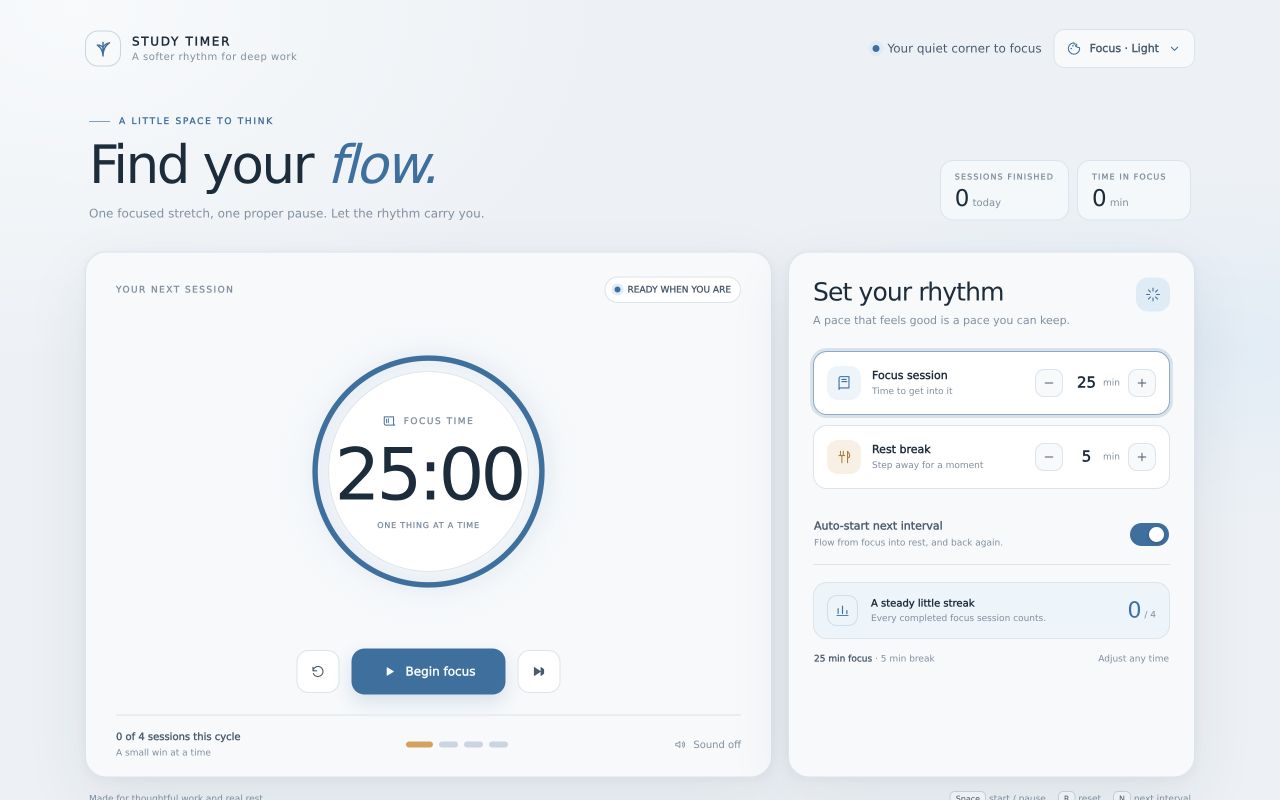
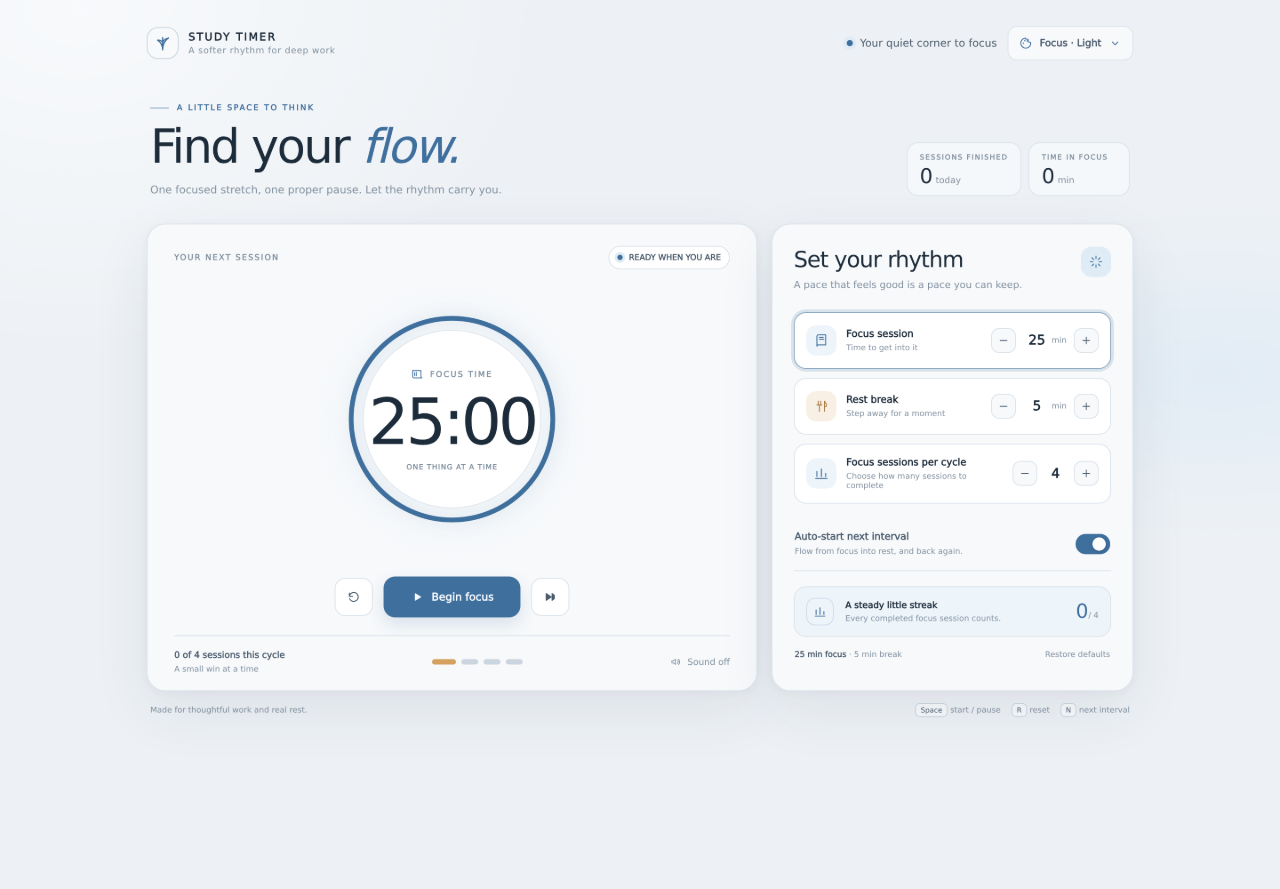
Add session cycle controls and defaults reset

diff --git a/index.html b/index.html
@@ -234,6 +234,8 @@
     .settings-spark svg { width: 17px; height: 17px; }
     .duration-list { display: grid; gap: 10px; }
     .duration-card { display: flex; justify-content: space-between; align-items: center; gap: 12px; padding: 14px 13px; border: 1px solid var(--line); border-radius: 14px; background: var(--surface-raised); }
+    .session-count-card { grid-column: 1 / -1; }
+    .session-count-card .duration-hint { max-width: 175px; white-space: normal; }
     .duration-card.is-active { border-color: color-mix(in srgb, var(--accent) 50%, var(--line)); box-shadow: 0 0 0 3px var(--focus-glow); }
     .duration-meta { display: flex; align-items: center; gap: 11px; min-width: 0; }
     .duration-icon { display: grid; place-items: center; flex: 0 0 auto; width: 34px; height: 34px; border-radius: 11px; background: var(--accent-wash); color: var(--accent); }
@@ -246,6 +248,7 @@
     .step-button:hover { border-color: var(--line-strong); color: var(--accent); }
     .step-button svg { width: 13px; height: 13px; }
     .duration-input { width: 31px; padding: 0; border: 0; outline: 0; background: transparent; color: var(--ink); font-size: 15px; font-weight: 750; text-align: center; font-variant-numeric: tabular-nums; appearance: textfield; }
+    .session-count-input { width: 25px; }
     .duration-input::-webkit-inner-spin-button, .duration-input::-webkit-outer-spin-button { margin: 0; appearance: none; }
     .minutes-suffix { margin-left: -7px; color: var(--muted); font-size: 9px; }
     .switch-row { display: flex; justify-content: space-between; align-items: center; gap: 18px; margin-top: 18px; padding: 13px 1px 15px; border-bottom: 1px solid var(--line); }
@@ -267,6 +270,8 @@
     .summary-total { color: var(--accent); font-family: var(--serif); font-size: 22px; }
     .settings-footer { display: flex; justify-content: space-between; gap: 15px; margin: 13px 1px 0; color: var(--muted); font-size: 9px; line-height: 1.5; }
     .settings-footer strong { color: var(--ink-soft); font-weight: 650; }
+    .reset-defaults-button { padding: 0; border: 0; background: transparent; color: var(--muted); cursor: pointer; font-size: 9px; text-decoration: underline; text-decoration-color: transparent; text-underline-offset: 3px; transition: color .2s, text-decoration-color .2s; }
+    .reset-defaults-button:hover { color: var(--accent); text-decoration-color: currentColor; }
     .toast { position: fixed; z-index: 8; right: 24px; bottom: 24px; max-width: calc(100vw - 48px); padding: 12px 15px; border: 1px solid var(--line-strong); border-radius: 12px; background: var(--surface-raised); color: var(--ink); box-shadow: var(--shadow); font-size: 11px; opacity: 0; transform: translateY(8px); pointer-events: none; transition: opacity .2s, transform .2s; }
     .toast.is-visible { opacity: 1; transform: translateY(0); }
     .page-footer { display: flex; justify-content: space-between; gap: 12px; margin: 16px 4px 0; color: var(--muted); font-size: 9px; }
@@ -307,11 +312,12 @@
       .timer-display { font-size: 62px; }
       .timer-buttons { margin: 3px 0 16px; }
       .primary-button { min-width: 142px; }
-      .timer-foot { align-items: flex-start; }
-      .cycle-dots { gap: 4px; }
+      .timer-foot { display: grid; grid-template-columns: minmax(0, 1fr) auto; align-items: start; row-gap: 10px; }
+      .cycle-copy { grid-column: 1; grid-row: 1; }
+      .cycle-dots { grid-column: 1 / -1; grid-row: 2; justify-content: center; gap: 4px; }
       .cycle-dot { width: 14px; }
       .cycle-dot.is-current { width: 20px; }
-      .foot-tools { gap: 8px; }
+      .foot-tools { grid-column: 2; grid-row: 1; gap: 8px; }
       .sound-button { font-size: 9px; }
       .settings-panel { padding: 19px 15px 16px; }
       .duration-list { grid-template-columns: 1fr; gap: 8px; }
@@ -403,7 +409,7 @@
 
           <div class="timer-foot">
             <div class="cycle-copy"><span class="cycle-title" id="cycleTitle">Your focus cycle</span><span class="cycle-caption" id="cycleCaption">A small win at a time</span></div>
-            <div class="cycle-dots" aria-label="Progress through four sessions"><i class="cycle-dot is-current"></i><i class="cycle-dot"></i><i class="cycle-dot"></i><i class="cycle-dot"></i></div>
+            <div class="cycle-dots" id="cycleDots" role="img" aria-label="0 of 4 focus sessions completed in this cycle"></div>
             <div class="foot-tools">
               <button class="sound-button" id="soundButton" type="button" aria-pressed="false" title="Toggle distinct focus and break sounds">
                 <svg viewBox="0 0 24 24" fill="none" aria-hidden="true"><path d="M4 10v4h3l4 3V7l-4 3H4Z" stroke="currentColor" stroke-width="1.5" stroke-linejoin="round"/><path d="M15 9a4 4 0 0 1 0 6m2-8a7 7 0 0 1 0 10" stroke="currentColor" stroke-width="1.5" stroke-linecap="round"/></svg>
@@ -434,6 +440,13 @@
               </div>
               <div class="stepper"><button class="step-button" type="button" data-step="break" data-delta="-1" aria-label="Decrease break interval by one minute"><svg viewBox="0 0 24 24" fill="none"><path d="M5 12h14" stroke="currentColor" stroke-width="1.8" stroke-linecap="round"/></svg></button><input class="duration-input" id="breakInput" type="number" inputmode="numeric" min="1" max="60" step="1" value="5" aria-label="Break interval in minutes"><span class="minutes-suffix">min</span><button class="step-button" type="button" data-step="break" data-delta="1" aria-label="Increase break interval by one minute"><svg viewBox="0 0 24 24" fill="none"><path d="M12 5v14m-7-7h14" stroke="currentColor" stroke-width="1.8" stroke-linecap="round"/></svg></button></div>
             </div>
+            <div class="duration-card session-count-card">
+              <div class="duration-meta">
+                <span class="duration-icon" aria-hidden="true"><svg viewBox="0 0 24 24" fill="none"><path d="M5 17V9m7 8V5m7 12v-5M3 20h18" stroke="currentColor" stroke-width="1.6" stroke-linecap="round"/></svg></span>
+                <div><div class="duration-name">Focus sessions per cycle</div><div class="duration-hint">Choose how many sessions to complete</div></div>
+              </div>
+              <div class="stepper"><button class="step-button" type="button" data-session-delta="-1" aria-label="Decrease focus sessions per cycle"><svg viewBox="0 0 24 24" fill="none"><path d="M5 12h14" stroke="currentColor" stroke-width="1.8" stroke-linecap="round"/></svg></button><input class="duration-input session-count-input" id="sessionsPerCycleInput" type="number" inputmode="numeric" min="1" max="12" step="1" value="4" aria-label="Number of focus sessions per cycle"><button class="step-button" type="button" data-session-delta="1" aria-label="Increase focus sessions per cycle"><svg viewBox="0 0 24 24" fill="none"><path d="M12 5v14m-7-7h14" stroke="currentColor" stroke-width="1.8" stroke-linecap="round"/></svg></button></div>
+            </div>
           </div>
 
           <div class="switch-row">
@@ -444,9 +457,9 @@
           <div class="session-summary" aria-live="polite">
             <span class="summary-icon" aria-hidden="true"><svg viewBox="0 0 24 24" fill="none"><path d="M5 17V9m7 8V5m7 12v-5" stroke="currentColor" stroke-width="1.8" stroke-linecap="round"/><path d="M3 20h18" stroke="currentColor" stroke-width="1.4" stroke-linecap="round"/></svg></span>
             <div class="summary-main"><div class="summary-title">A steady little streak</div><div class="summary-caption" id="sessionSummary">Every completed focus session counts.</div></div>
-            <div class="summary-total"><span id="summarySessions">0</span><small style="font-family:var(--font);font-size:9px;color:var(--muted)"> / 4</small></div>
+            <div class="summary-total"><span id="summarySessions">0</span><small id="summarySessionTarget" style="font-family:var(--font);font-size:9px;color:var(--muted)"> / 4</small></div>
           </div>
-          <div class="settings-footer"><span><strong id="selectedDuration">25 min focus</strong> · <span id="selectedBreak">5 min break</span></span><span>Adjust any time</span></div>
+          <div class="settings-footer"><span><strong id="selectedDuration">25 min focus</strong> · <span id="selectedBreak">5 min break</span></span><button class="reset-defaults-button" id="restoreDefaultsButton" type="button" title="Reset intervals, theme, sound, timer, and session progress">Restore defaults</button></div>
         </aside>
       </div>
     </main>
@@ -472,7 +485,7 @@
       const studyIcon = '<svg viewBox="0 0 24 24" fill="none" aria-hidden="true"><path d="M5 5.5A2.5 2.5 0 0 1 7.5 3H19v16H7.5A2.5 2.5 0 0 0 5 21V5.5Z" stroke="currentColor" stroke-width="1.7" stroke-linejoin="round"/><path d="M9 7h6m-6 3h7" stroke="currentColor" stroke-width="1.6" stroke-linecap="round"/></svg>';
       const breakIcon = '<svg viewBox="0 0 24 24" fill="none" aria-hidden="true"><path d="M7 4v6m4-6v6M5 10h8M9 10v10m8-16v16m0-16c2 2 3 4.2 3 6.3 0 1.8-1.1 2.7-3 2.7" stroke="currentColor" stroke-width="1.7" stroke-linecap="round" stroke-linejoin="round"/></svg>';
       const dayKey = (date = new Date()) => `${date.getFullYear()}-${String(date.getMonth() + 1).padStart(2, "0")}-${String(date.getDate()).padStart(2, "0")}`;
-      const defaults = { studyMinutes: 25, breakMinutes: 5, theme: "focus-light", autoStart: true, sound: false, completed: 0, focusMinutes: 0, date: dayKey() };
+      const defaults = { studyMinutes: 25, breakMinutes: 5, sessionsPerCycle: 4, theme: "focus-light", autoStart: true, sound: false, completed: 0, focusMinutes: 0, date: dayKey() };
       const readJson = (key) => { try { return JSON.parse(localStorage.getItem(key) || "null"); } catch { return null; } };
       const initialPrefs = readJson(PREFS_KEY) || {};
       const isNewDay = initialPrefs.date && initialPrefs.date !== dayKey();
@@ -480,6 +493,7 @@
       const prefs = {
         studyMinutes: clamp(Number(initialPrefs.studyMinutes) || defaults.studyMinutes, 1, 180),
         breakMinutes: clamp(Number(initialPrefs.breakMinutes) || defaults.breakMinutes, 1, 60),
+        sessionsPerCycle: clamp(Math.floor(Number(initialPrefs.sessionsPerCycle) || defaults.sessionsPerCycle), 1, 12),
         theme: THEMES[savedTheme] ? savedTheme : defaults.theme,
         autoStart: typeof initialPrefs.autoStart === "boolean" ? initialPrefs.autoStart : defaults.autoStart,
         sound: typeof initialPrefs.sound === "boolean" ? initialPrefs.sound : defaults.sound,
@@ -544,6 +558,7 @@
         $("breakCard").classList.toggle("is-active", phase === "break");
         if (document.activeElement !== $("studyInput")) $("studyInput").value = prefs.studyMinutes;
         if (document.activeElement !== $("breakInput")) $("breakInput").value = prefs.breakMinutes;
+        if (document.activeElement !== $("sessionsPerCycleInput")) $("sessionsPerCycleInput").value = prefs.sessionsPerCycle;
         $("selectedDuration").textContent = `${prefs.studyMinutes} min focus`;
         $("selectedBreak").textContent = `${prefs.breakMinutes} min break`;
         $("autoStartInput").checked = prefs.autoStart;
@@ -551,15 +566,29 @@
         $("soundLabel").textContent = prefs.sound ? "Sound on" : "Sound off";
         $("sessionsStat").textContent = prefs.completed;
         $("focusHours").textContent = prefs.focusMinutes;
-        $("summarySessions").textContent = prefs.completed % 4 || (prefs.completed > 0 ? 4 : 0);
+        const cycleTarget = prefs.sessionsPerCycle;
+        const cycleRemainder = prefs.completed % cycleTarget;
+        const cycleComplete = prefs.completed > 0 && cycleRemainder === 0;
+        const completedThisCycle = cycleComplete ? cycleTarget : cycleRemainder;
+        $("summarySessions").textContent = completedThisCycle;
+        $("summarySessionTarget").textContent = `/ ${cycleTarget}`;
         $("sessionSummary").textContent = prefs.completed ? `${prefs.completed} focus ${prefs.completed === 1 ? "session" : "sessions"} completed. Lovely work.` : "Every completed focus session counts.";
-        const countInCycle = prefs.completed % 4;
-        document.querySelectorAll(".cycle-dot").forEach((dot, index) => {
-          dot.classList.toggle("is-done", index < countInCycle);
-          dot.classList.toggle("is-current", index === countInCycle);
-        });
-        $("cycleTitle").textContent = `${countInCycle || (prefs.completed > 0 ? 4 : 0)} of 4 sessions this cycle`;
-        $("cycleCaption").textContent = prefs.completed >= 4 && countInCycle === 0 ? "A nice time for a longer pause" : "A small win at a time";
+        const cycleDots = $("cycleDots");
+        const cycleProgressKey = `${cycleTarget}:${completedThisCycle}:${cycleComplete}`;
+        if (cycleDots.dataset.progress !== cycleProgressKey) {
+          if (cycleDots.childElementCount !== cycleTarget) {
+            cycleDots.replaceChildren(...Array.from({ length: cycleTarget }, () => document.createElement("i")));
+          }
+          [...cycleDots.children].forEach((dot, index) => {
+            dot.className = "cycle-dot";
+            if (index < completedThisCycle) dot.classList.add("is-done");
+            else if (!cycleComplete && index === completedThisCycle) dot.classList.add("is-current");
+          });
+          cycleDots.dataset.progress = cycleProgressKey;
+        }
+        cycleDots.setAttribute("aria-label", `${completedThisCycle} of ${cycleTarget} focus sessions completed in this cycle`);
+        $("cycleTitle").textContent = `${completedThisCycle} of ${cycleTarget} sessions this cycle`;
+        $("cycleCaption").textContent = cycleComplete ? "A nice time for a longer pause" : "A small win at a time";
         document.title = `${format(remaining)} · ${phase === "study" ? "Focus" : "Break"} — Study Timer`;
       }
       function start() {
@@ -652,9 +681,24 @@
         if (isRunning && phase === kind && remaining <= 0) { completeInterval(); return; }
         savePrefs(); saveTimer(); render();
       }
+      function changeSessionsPerCycle(value) {
+        prefs.sessionsPerCycle = clamp(Math.round(Number(value) || 1), 1, 12);
+        savePrefs(); render();
+      }
+      function restoreDefaults() {
+        if (!window.confirm("Restore all default settings and clear today's session progress and timer?")) return;
+        Object.assign(prefs, defaults, { date: dayKey() });
+        phase = "study"; remaining = secondsFor("study"); isRunning = false; endAt = null;
+        try { localStorage.removeItem(PREFS_KEY); localStorage.removeItem(TIMER_KEY); } catch {}
+        if (audioContext && audioContext.state !== "closed") audioContext.close().catch(() => {});
+        audioContext = null;
+        setTheme(prefs.theme); saveTimer(); render();
+        toast("Defaults restored and session progress cleared.");
+      }
 
       $("startButton").addEventListener("click", start);
       $("resetButton").addEventListener("click", reset);
+      $("restoreDefaultsButton").addEventListener("click", restoreDefaults);
       $("skipButton").addEventListener("click", () => { selectPhase(phase === "study" ? "break" : "study", true); toast(`Switched to ${phase === "study" ? "focus" : "your break"}.`); });
       document.querySelectorAll("[data-step]").forEach((button) => button.addEventListener("click", () => {
         const kind = button.dataset.step; const input = $(kind === "study" ? "studyInput" : "breakInput");
@@ -662,6 +706,11 @@
       }));
       $("studyInput").addEventListener("change", (event) => changeDuration("study", event.target.value));
       $("breakInput").addEventListener("change", (event) => changeDuration("break", event.target.value));
+      $("sessionsPerCycleInput").addEventListener("change", (event) => changeSessionsPerCycle(event.target.value));
+      document.querySelectorAll("[data-session-delta]").forEach((button) => button.addEventListener("click", () => {
+        const current = Number($("sessionsPerCycleInput").value) || prefs.sessionsPerCycle;
+        changeSessionsPerCycle(current + Number(button.dataset.sessionDelta));
+      }));
       $("autoStartInput").addEventListener("change", (event) => { prefs.autoStart = event.target.checked; savePrefs(); render(); toast(prefs.autoStart ? "The next interval will start automatically." : "Intervals will switch and wait for you."); });
       $("soundButton").addEventListener("click", () => { prefs.sound = !prefs.sound; savePrefs(); render(); if (prefs.sound) { playPhaseCue(phase); toast("Sound is on. Focus and break have different cues."); } });
 

diff --git a/README.md b/README.md
@@ -16,9 +16,9 @@ Study Timer keeps the interface quiet while making it easy to shape a work and r
 
 | Focus | Break | Make it yours |
 | --- | --- | --- |
-| Adjustable 1–180 minute focus sessions | Adjustable 1–60 minute breaks | Focus and Calm themes, each in light and dark |
+| Adjustable 1–180 minute focus sessions | Adjustable 1–60 minute breaks | Choose 1–12 focus sessions per cycle |
 | Automatic focus-to-break switching | A separate warm break appearance and transition animation | Optional, different audio cues for focus and breaks |
-| Daily session and focus-time totals | Optional automatic start for the next interval | Preferences and progress saved in this browser |
+| Daily session and focus-time totals | Optional automatic start for the next interval | Four themes, plus a restore-defaults control that clears saved progress |
 
 ### The session cycle
 
